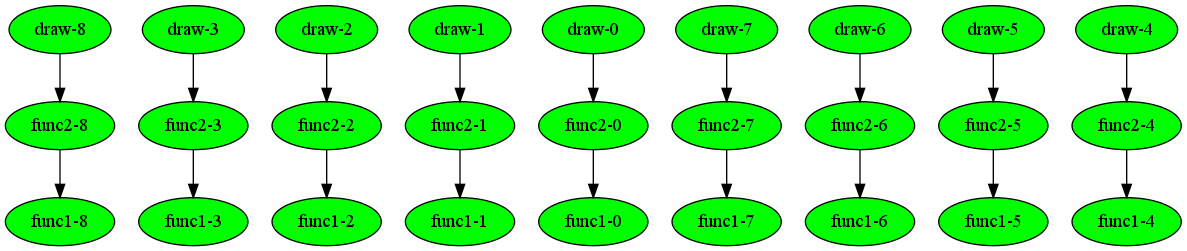
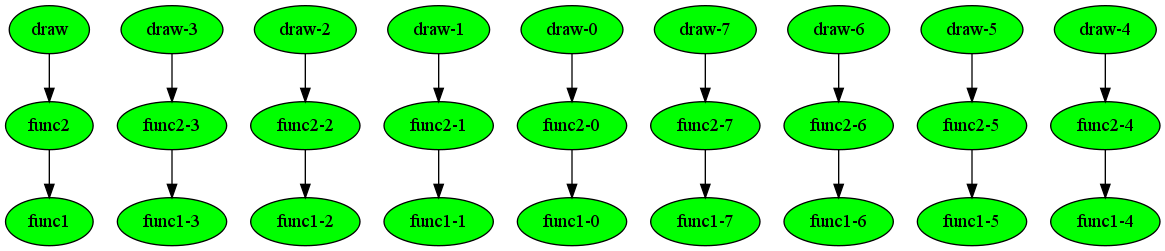
updated

diff --git a/searchindex.js b/searchindex.js
@@ -1,1 +1,1 @@
-Search.setIndex({objects:{},terms:{all:[1,2,4],code:4,ciao:1,follow:[7,4,5],alt:0,disk:0,depend:[0,1,2,5],graph:[4,1,2,5],intermedi:2,program:4,mycomput:4,func2:4,func1:4,sourc:4,string:[5,10],fals:4,commands_html:1,level:2,list:[1,7,2,4],"try":1,stderr:7,quick:0,pleas:[0,2],second:4,further:2,ribbon:0,index:6,appear:7,section:[],current:[0,5],version:5,full:5,gener:[1,7,5],here:4,make_singl:1,clustmak:1,along:0,becom:4,modifi:4,valu:[7,10],search:6,echo_stdout:7,"2mnot":4,credit:1,action:[],chang:5,echo_stderr:7,prerequisit:5,modul:[0,6,2,4],ask:7,api:[0,9],instal:[0,4,5],redi:[1,2,5,10],select:[1,4],from:[4,2,5],describ:5,two:2,call:4,type:[7,10],more:[0,1,5],visual:1,cach:0,must:1,none:1,graphic:4,setup:5,work:2,can:[4,2,5],def:2,process:[0,5,10],indic:6,multipl:4,write:[2,9],instead:4,reestablish:10,config:[1,7],css:7,config_html:1,clone:0,after:4,diagram:4,befor:4,attent:2,remak:1,data:1,parallel:[0,1,8,5],github:0,setproctitl:5,inform:0,"switch":7,green:4,allow:[0,5],help:1,ouput:2,failur:2,becaus:2,graphviz:[4,5],still:2,paramet:[1,2],params1:4,style:[0,7],monitor:5,img:0,fix:2,might:2,them:2,"return":2,thei:5,python:[0,4,5],auto:7,now:4,multiprocess:[0,2,8],name:[1,7,5],trac:5,didn:10,mode:[1,7],each:4,debug:10,found:[5,10],mean:[4,10],hard:2,continu:2,realli:2,compmak:[0,1,2,5,6,7,4,10],connect:10,http:[0,5],todo:2,out:[1,2],shown:7,network:2,"32mdone":4,content:[1,6],rel:4,print:1,advanc:[0,1,9],base:2,put:10,org:5,interact:7,lambda:2,origin:4,softwar:5,done:4,facil:0,given:1,top:[0,2,5],termin:7,shell:1,gotcha:10,"1em":7,specifi:[1,4],using_compmak:4,rst:[],png:0,target:1,structur:10,rst__:0,param2:4,param1:4,posit:0,grei:4,seri:4,"function":[2,4],comput:[4,0,1,2,5],parmak:1,argument:2,packag:5,have:[4,1,2,5],tabl:[1,6,7],border:0,depict:4,equival:1,parremak:1,moreov:5,note:[0,1,5,10],also:[0,4],exampl:[2,4],take:4,noth:1,singl:1,list_fail:1,track:2,most:0,"class":[1,7],clean:[0,1,4],serializ:2,show:[1,4],carefulli:2,text:7,forkme_right_darkblue_121621:0,syntax:4,absolut:0,explain:1,configur:[0,1,7],should:[4,2,5],suppos:4,get:1,obtrus:0,requir:5,statist:1,wiki:5,set:1,dump:1,see:[4,0,2,5],result:[0,1,2,4],fail:[1,2],statu:[4,1,2,5],censi:0,"import":[1,2,4],experi:2,extend:2,comp:[2,4],job:[1,7,2,4],toler:2,readlin:5,res2:4,howev:10,etc:0,tutori:[0,4],com:0,load:1,color:[7,4,5],colspan:[1,7],termcolor:5,linux:5,assum:1,backend:[1,2],interest:[0,4],life:5,andrea:0,parmor:1,batch:0,pickabl:2,error:2,fun:5,advantag:4,stdout:7,non:[0,5],contributor:0,cluster:1,sever:2,develop:[0,10],welcom:[0,6],author:0,make:[0,1,4,5],fragment:4,html:1,pad:7,document:[0,1,6,9],complet:2,slave:1,driver:10,user:1,typic:4,gvgen:[4,5],pickl:[1,2],without:2,command:[4,0,1,3,5],thi:[2,4],filesystem:2,everyth:1,usual:10,execut:[0,7,8],easi:4,except:2,param:[1,2],add:0,input:2,save:2,around:2,read:[0,2],res1:4,press:5,amp:9,desc:[1,7],like:0,amazonaw:0,altough:0,server:[5,10],href:0,necessari:[2,5],output:[7,4],page:6,www:5,right:0,parsimexcept:10,some:[2,4],draw:4,"export":1,toctre:[],proper:10,librari:4,confirm:7,estim:2,exit:1,refer:[0,1,7,3],run:4,inspect:2,usag:[0,9],host:0,repositori:0,src:0,about:1,produc:4,easy_instal:[0,5],automat:0,andreacensi:0,wrap:4,storag:2,your:[0,2,4],git:0,wai:1,support:[2,5],start:4,interfac:[2,5],prettier:4,strictli:5,fork:[0,10],form:4,line:[0,3,4],"true":[7,4],possibl:7,whether:7,access:0,limit:[0,2],fundament:2,problem:[4,10],similar:4,featur:[0,2,4],curs:2,creat:1,inl:5,diagnost:[1,4],file:[1,4],googl:2,titl:[],when:10,other:[1,5],gra:4,you:[4,1,2,5],stat:1,wildcard:4,ago:4,descript:1,rule:2,my_program:4,maxdepth:[],time:2},objtypes:{},titles:["Compmake","Commands reference","Features and limitations","Command line reference","Tutorial","Installation notes","Welcome to Compmake&#8217;s documentation!","Configuration reference","Parallel execution using multiprocessing","Advanced usage &amp; API documentation","Developer notes"],objnames:{},filenames:["index","commands","features","commandline","tutorial","install","main","config","parallel","advanced","developer"]})
+Search.setIndex({objects:{},terms:{all:[1,2,9],code:9,ciao:1,follow:[7,5,9],alt:0,disk:[0,2],depend:[0,1,2,5],graph:[5,1,2,9],intermedi:[7,2],program:9,mycomput:9,func2:9,func1:9,sourc:9,string:[5,10],fals:9,failur:2,level:2,list:[1,7,2,9],"try":1,stderr:7,quick:0,pleas:[0,2],second:9,further:2,ribbon:0,index:6,appear:7,section:[],current:[0,5],version:5,full:5,gener:[1,7,5],here:9,make_singl:1,clustmak:1,along:0,becom:9,modifi:9,valu:[7,10],search:6,echo_stdout:7,"2mnot":[],credit:1,action:[],chang:5,echo_stderr:7,prerequisit:5,modul:[0,6,2,9],put:10,href:0,instal:[0,5,9],redi:[1,2,5,10],select:[1,9],from:[5,2,9],describ:5,memori:2,two:2,call:9,type:[7,10],more:[0,1,5],python:[0,5,9],visual:1,cach:0,must:1,none:1,graphic:9,setup:5,work:2,can:[5,2,9],def:2,process:[0,5,10],indic:6,multipl:9,write:[2,4],instead:9,reestablish:10,config:[1,7],css:7,config_html:1,clone:0,after:9,diagram:9,befor:9,clustmor:1,attent:2,remak:1,data:1,parallel:[0,1,8,5],github:0,setproctitl:5,disabl:7,inform:0,"switch":7,green:9,allow:[0,5],help:1,ouput:2,commands_html:1,becaus:2,graphviz:[5,9],still:2,paramet:[1,2],params1:9,style:[0,7],monitor:5,img:0,fix:2,might:2,them:2,"return":2,thei:5,fragment:9,auto:7,now:9,multiprocess:[0,2,8],name:[1,7,5],trac:5,didn:10,mode:[1,7],each:9,debug:10,found:[5,10],mean:[9,10],hard:2,continu:2,realli:2,compmak:[0,1,2,5,6,7,9,10],connect:10,http:[0,5],todo:2,out:[1,2],shown:7,network:2,"32mdone":[],content:[1,6],rel:9,print:1,advanc:[0,1,4],base:2,ask:7,org:5,interact:7,lambda:2,origin:9,softwar:5,done:9,facil:0,given:1,top:[0,2,5],termin:7,shell:1,gotcha:10,"1em":7,specifi:[1,9],using_compmak:9,rst:[],png:0,target:1,structur:10,rst__:0,param2:9,param1:9,posit:0,grei:9,seri:9,fork:[0,10],comput:[0,1,5,2,9],parmak:1,argument:2,packag:5,have:[5,1,2,9],tabl:[1,6,7],border:0,depict:9,equival:1,parremak:1,moreov:5,note:[0,1,5,10],also:[0,9],exampl:[2,9],take:9,noth:1,singl:1,list_fail:1,track:2,most:0,"class":[1,7],clean:[0,1,9],serializ:2,show:[1,9],carefulli:2,text:7,forkme_right_darkblue_121621:0,syntax:9,absolut:0,explain:1,configur:[0,1,7],should:[5,2,9],suppos:9,get:1,obtrus:0,requir:5,yield:7,statist:1,save_progress:7,wiki:5,set:1,dump:1,see:[0,5,2,9],result:[0,1,7,2,9],fail:[1,2],statu:[5,1,2,9],censi:0,"import":[1,2,9],experi:2,extend:2,comp:[2,9],job:[1,7,2,9],toler:2,readlin:5,howev:10,etc:0,tutori:[0,9],com:0,load:1,color:[7,5,9],colspan:[1,7],param:[1,2],linux:5,assum:1,backend:[1,2],interest:[0,9],life:5,andrea:0,save:[7,2],batch:0,pickabl:2,error:2,fun:5,advantag:9,stdout:7,non:[0,5],contributor:0,cluster:[1,7],sever:2,develop:[0,10],welcom:[0,6],author:0,make:[0,1,5,9],res2:9,html:1,pad:7,document:[0,1,6,4],complet:2,slave:[1,7],driver:10,user:1,typic:9,gvgen:[5,9],pickl:[1,2],without:2,command:[0,1,5,3,9],thi:[2,9],filesystem:2,everyth:1,paradigm:7,usual:10,execut:[0,7,8],bandwidth:7,easi:9,except:2,termcolor:5,add:0,input:2,parmor:1,around:2,read:[0,2],res1:9,press:5,amp:4,desc:[1,7],like:0,amazonaw:0,altough:0,server:[5,10],api:[0,4],necessari:[2,5],output:[7,9],page:6,www:5,right:0,parsimexcept:10,some:[2,9],stat:1,"export":1,toctre:[],proper:10,librari:9,confirm:7,estim:2,exit:1,refer:[0,1,7,3],run:9,inspect:2,usag:[0,4],host:0,repositori:0,src:0,about:1,produc:9,easy_instal:[0,5],automat:[0,7],andreacensi:0,wrap:9,storag:2,your:[0,2,9],git:0,wai:1,support:[2,5],start:9,interfac:[2,5],prettier:9,strictli:5,"function":[2,9],form:9,line:[0,3,9],"true":[7,9],possibl:7,whether:7,access:0,limit:[0,2],fundament:2,problem:[9,10],similar:9,featur:[0,2,9],curs:2,creat:1,inl:5,diagnost:[1,9],file:[1,9],googl:2,titl:[],when:10,other:[1,5],gra:9,you:[5,1,2,9],draw:9,wildcard:9,ago:9,descript:1,rule:2,my_program:9,maxdepth:[],time:2},objtypes:{},titles:["Compmake","Commands reference","Features and limitations","Command line reference","Advanced usage &amp; API documentation","Installation notes","Welcome to Compmake&#8217;s documentation!","Configuration reference","Parallel execution using multiprocessing","Tutorial","Developer notes"],objnames:{},filenames:["index","commands","features","commandline","advanced","install","main","config","parallel","tutorial","developer"]})

diff --git a/tutorial.html b/tutorial.html
@@ -111,22 +111,22 @@ If you run</p>
 <div class="highlight-python"><pre>$ compmake example list</pre>
 </div>
 <p>before running <tt class="docutils literal"><span class="pre">make</span></tt>, you will see an output similar to this:</p>
-<div class="highlight-python"><pre>draw-0                                            [2mNot started/False[0m
-draw-1                                            [2mNot started/False[0m
-draw-2                                            [2mNot started/False[0m
-draw-3                                            [2mNot started/False[0m
-draw-4                                            [2mNot started/False[0m
-draw-5                                            [2mNot started/False[0m
+<div class="highlight-python"><pre>draw                                              Not started/False
+draw-0                                            Not started/False
+draw-1                                            Not started/False
+draw-2                                            Not started/False
+draw-3                                            Not started/False
+draw-4                                            Not started/False
 [...]
 </pre>
 </div>
 <p>After running <tt class="docutils literal"><span class="pre">make</span></tt>, the output will be:</p>
-<div class="highlight-python"><pre>draw-0                                            [32mDone/True[0m (1 second ago)
-draw-1                                            [32mDone/True[0m (1 second ago)
-draw-2                                            [32mDone/True[0m (1 second ago)
-draw-3                                            [32mDone/True[0m (1 second ago)
-draw-4                                            [32mDone/True[0m (1 second ago)
-draw-5                                            [32mDone/True[0m (1 second ago)
+<div class="highlight-python"><pre>draw                                              Done/True (1 second ago)
+draw-0                                            Done/True (1 second ago)
+draw-1                                            Done/True (1 second ago)
+draw-2                                            Done/True (1 second ago)
+draw-3                                            Done/True (1 second ago)
+draw-4                                            Done/True (1 second ago)
 [...]
 </pre>
 </div>

diff --git a/features.html b/features.html
@@ -78,9 +78,15 @@ multiprocessing module.</li>
 <p class="first admonition-title">Attention</p>
 <p class="last">There are some limitations that might limit this module  usefulness. Please read these carefully because it is really hard to work around them, without severely limiting the <tt class="docutils literal"><span class="pre">compmake</span></tt> experience.</p>
 </div>
-<p>### Computational graph should be fixed</p>
+<div class="section" id="computational-graph-should-be-fixed">
+<h3>Computational graph should be fixed<a class="headerlink" href="#computational-graph-should-be-fixed" title="Permalink to this headline">¶</a></h3>
 <p>The computational graph should not depend on the result of the computation.</p>
-<p>### Input and ouput should be pickable</p>
+</div>
+<div class="section" id="all-intermediate-results-are-saved-to-disk-memory">
+<h3>All intermediate results are saved to disk/memory<a class="headerlink" href="#all-intermediate-results-are-saved-to-disk-memory" title="Permalink to this headline">¶</a></h3>
+</div>
+<div class="section" id="input-and-ouput-should-be-pickable">
+<h3>Input and ouput should be pickable<a class="headerlink" href="#input-and-ouput-should-be-pickable" title="Permalink to this headline">¶</a></h3>
 <p>All parameters and intermediate results should be pickable (i.e., serializable using the <tt class="docutils literal"><span class="pre">pickle</span></tt> module).</p>
 <p>This rules out the use of lambda functions in the argument.</p>
 <p>For example, this is not supported:</p>
@@ -100,6 +106,7 @@ as a top-level function:</p>
 
 <span class="n">comp</span><span class="p">(</span><span class="n">x</span><span class="p">,</span> <span class="mi">2</span><span class="p">)</span>
 </pre></div>
+</div>
 </div>
 </div>
 </div>

diff --git a/commands.html b/commands.html
@@ -74,6 +74,7 @@
 <tr><th colspan='3'>Cluster commands</th></tr/ 
 <tr><td colspan='3'> These assume that you have a cluster configuration file as explained in the documentation. </td></tr> 
 <tr> <td class='command-name'><tt>clustmake</tt></td> <td class='command-params'><tt><tt></td> <td class='command-desc'>Cluster equivalent of "make".</td> </tr> 
+<tr> <td class='command-name'><tt>clustmore</tt></td> <td class='command-params'><tt><tt></td> <td class='command-desc'>Cluster equivalent of "more".</td> </tr> 
 <tr><th colspan='3'>Import / export</th></tr/ 
 <tr><td colspan='3'> Ways to get data out of compmake. </td></tr> 
 <tr> <td class='command-name'><tt>dump</tt></td> <td class='command-params'><tt><tt></td> <td class='command-desc'>Dumps the content of jobs as pickle files.</td> </tr> 

diff --git a/config.html b/config.html
@@ -55,6 +55,8 @@
 <tr><th colspan='3'>Job execution</th></tr/ 
 <tr> <td class='config-name'><tt>echo_stdout</tt></td> <td class='config-value'><tt>True<tt></td> <td class='config-desc'>If true, the job output to stdout is shown.</td> </tr> 
 <tr> <td class='config-name'><tt>echo_stderr</tt></td> <td class='config-value'><tt>True<tt></td> <td class='config-desc'>If true, the job output to stderr is shown.</td> </tr> 
+<tr> <td class='config-name'><tt>save_progress</tt></td> <td class='config-value'><tt>True<tt></td> <td class='config-desc'>Whether to save intermediate results for jobs that use the yield() paradigm.
+Automatically disabled for cluster slaves to save bandwidth.</td> </tr> 
 </table>
 
     <style type="text/css">
